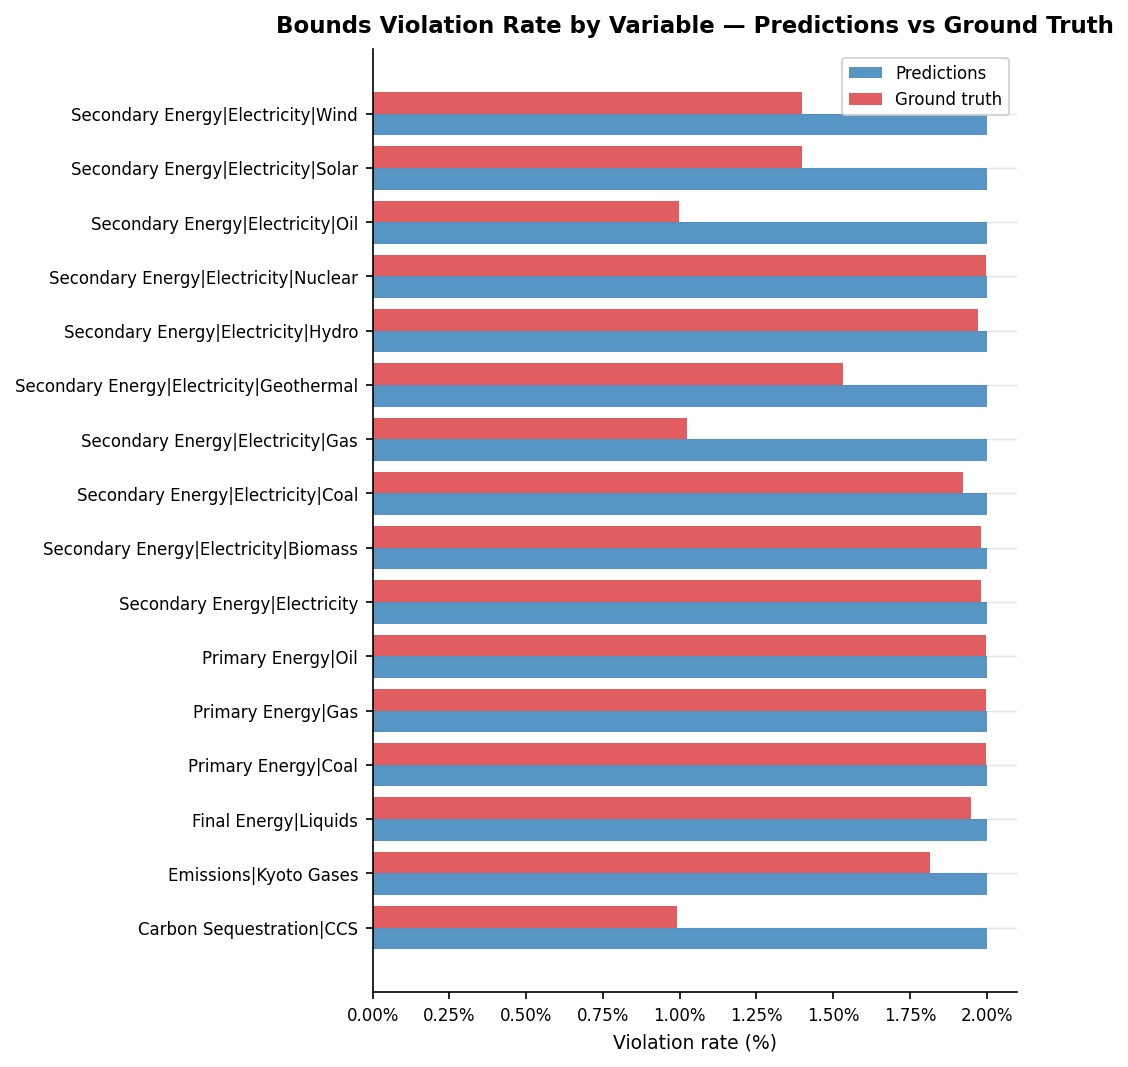
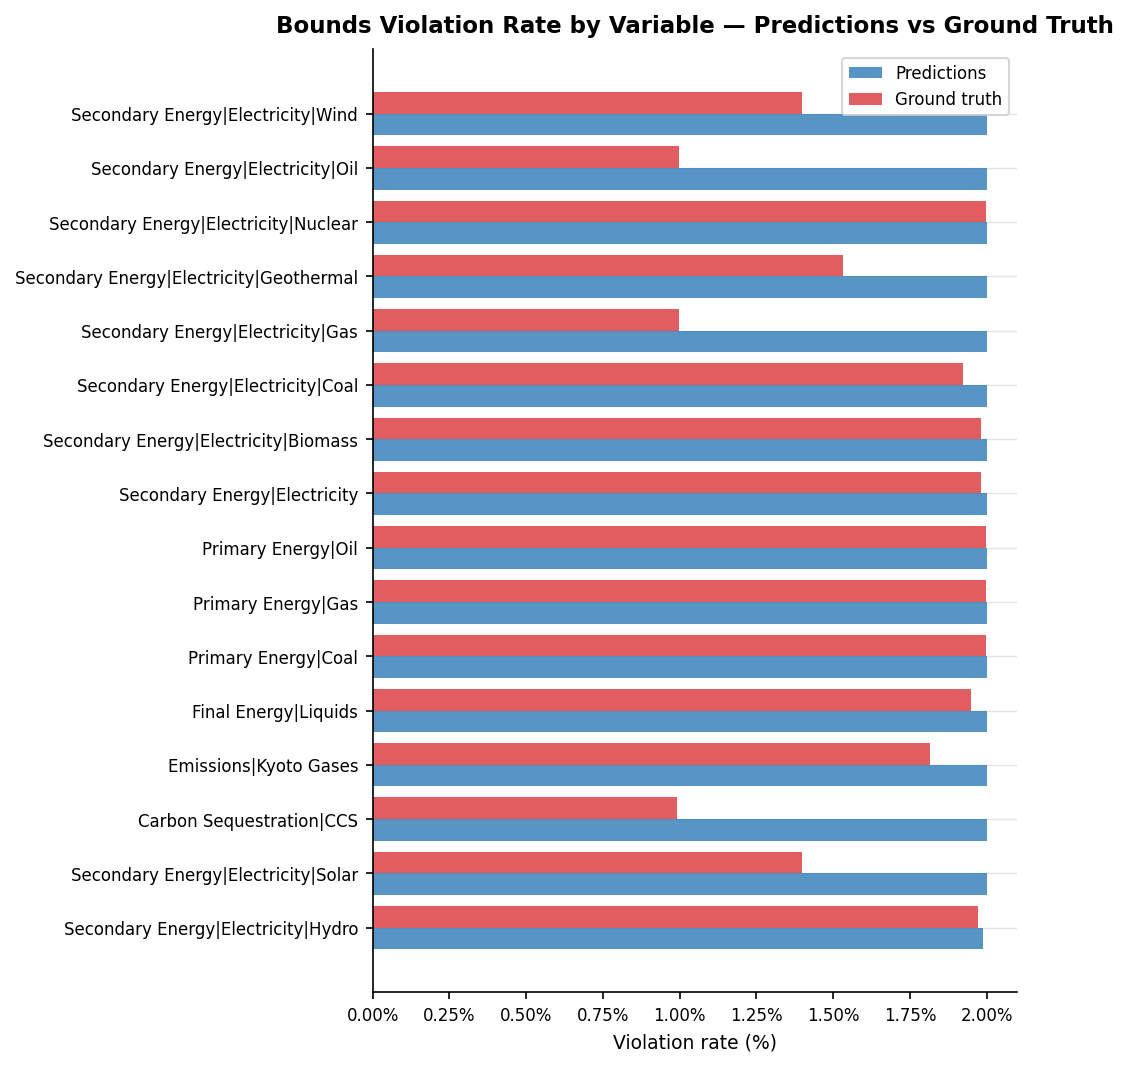
updates to reporting framework

diff --git a/scripts/make_val_report.py b/scripts/make_val_report.py
@@ -230,12 +230,19 @@ def _example_bounds_failure(viol_df: pd.DataFrame, label: str) -> str:
     if violations.empty:
         return f"_No violations found in {label}._"
 
-    # Compute deviation as % of the bound that was breached
+    # Compute deviation as % of the bound that was breached.
+    # When the bound is near zero, relative % is meaningless — use absolute difference instead
+    # (returned as a negative number so it sorts below genuine relative deviations).
+    _BOUND_TOL = 1e-3
     def _pct_dev(row):
-        if row["below_lower"] and pd.notna(row["lower_bound"]) and row["lower_bound"] != 0:
-            return abs((row["Value"] - row["lower_bound"]) / row["lower_bound"]) * 100
-        if row["above_upper"] and pd.notna(row["upper_bound"]) and row["upper_bound"] != 0:
-            return abs((row["Value"] - row["upper_bound"]) / row["upper_bound"]) * 100
+        if row["below_lower"] and pd.notna(row["lower_bound"]):
+            if abs(row["lower_bound"]) > _BOUND_TOL:
+                return abs((row["Value"] - row["lower_bound"]) / row["lower_bound"]) * 100
+            return 0.0  # near-zero bound: don't rank by relative %
+        if row["above_upper"] and pd.notna(row["upper_bound"]):
+            if abs(row["upper_bound"]) > _BOUND_TOL:
+                return abs((row["Value"] - row["upper_bound"]) / row["upper_bound"]) * 100
+            return 0.0
         return 0.0
 
     violations["_pct_dev"] = violations.apply(_pct_dev, axis=1)
@@ -245,6 +252,11 @@ def _example_bounds_failure(viol_df: pd.DataFrame, label: str) -> str:
     direction = "below lower bound" if row["below_lower"] else "above upper bound"
     bound_val = row["lower_bound"] if row["below_lower"] else row["upper_bound"]
 
+    dev_str = (
+        f"{row['_pct_dev']:.2f}"
+        if row["_pct_dev"] > 0
+        else "N/A (near-zero bound)"
+    )
     detail = pd.DataFrame([{
         "Variable":      row["Variable"],
         "Scenario":      row.get("Scenario", "—"),
@@ -256,7 +268,7 @@ def _example_bounds_failure(viol_df: pd.DataFrame, label: str) -> str:
         "Direction":     direction,
         "Lower bound":   round(float(row["lower_bound"]), 3) if pd.notna(row["lower_bound"]) else "—",
         "Upper bound":   round(float(row["upper_bound"]), 3) if pd.notna(row["upper_bound"]) else "—",
-        "Deviation (%)": round(float(row["_pct_dev"]),    2),
+        "Deviation (%)": dev_str,
     }])
 
     header = f"**Most extreme violation** (largest % deviation from the breached bound)"

diff --git a/scripts/bounds_check.py b/scripts/bounds_check.py
@@ -228,13 +228,16 @@ def run_bounds_check(
         how="inner",  # only variables that have at least one bound
     )
 
+    # Use a small absolute tolerance to avoid flagging floating-point noise
+    # (e.g. a value of -1e-10 against a lower bound of 0.0 is not a real violation).
+    ABS_TOL = 1e-6
     checked["below_lower"] = (
         checked["lower_bound"].notna() &
-        (checked["Value"] < checked["lower_bound"])
+        (checked["Value"] < checked["lower_bound"] - ABS_TOL)
     )
     checked["above_upper"] = (
         checked["upper_bound"].notna() &
-        (checked["Value"] > checked["upper_bound"])
+        (checked["Value"] > checked["upper_bound"] + ABS_TOL)
     )
     checked["violation"] = checked["below_lower"] | checked["above_upper"]
 

diff --git a/reports/xgb_04/report.md b/reports/xgb_04/report.md
@@ -1,7 +1,7 @@
 # Validation Report: xgb_04
 
 **Run ID:** `xgb_04`
-**Generated:** 2026-04-10 11:05
+**Generated:** 2026-04-10 11:13
 **Results path:** `results/xgb/xgb_04/`
 
 ---
@@ -252,7 +252,7 @@ _The most extreme violation (largest % deviation from the breached bound) is sho
 
 | Variable | Scenario | Region | Category | Year | Value | Bound breached | Direction | Lower bound | Upper bound | Deviation (%) |
 | --- | --- | --- | --- | --- | --- | --- | --- | --- | --- | --- |
-| Primary Energy\|Oil | DeepElec_SSP2_def_Budg900 | R10LATIN_AM | C1 | 2070 | -405.891 | 0.268 | below lower bound | 0.268 | 202427.081 | 151417.7 |
+| Primary Energy\|Oil | DeepElec_SSP2_def_Budg900 | R10LATIN_AM | C1 | 2070 | -405.891 | 0.268 | below lower bound | 0.268 | 202427.081 | 151417.70 |
 
 #### Example violation — ground truth
 
